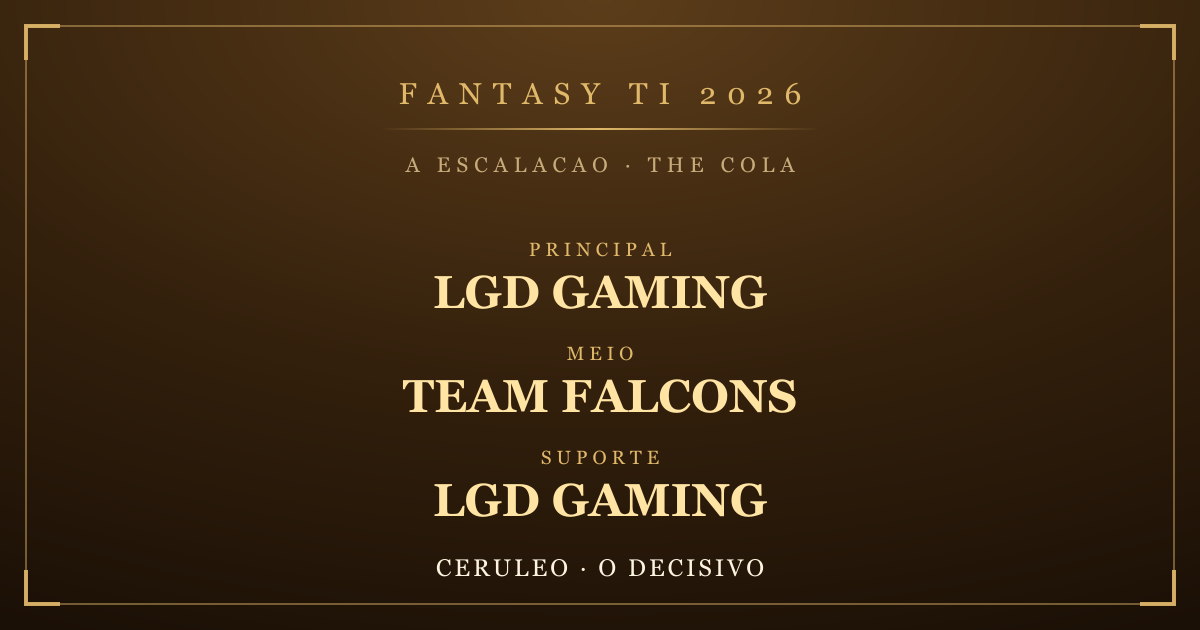
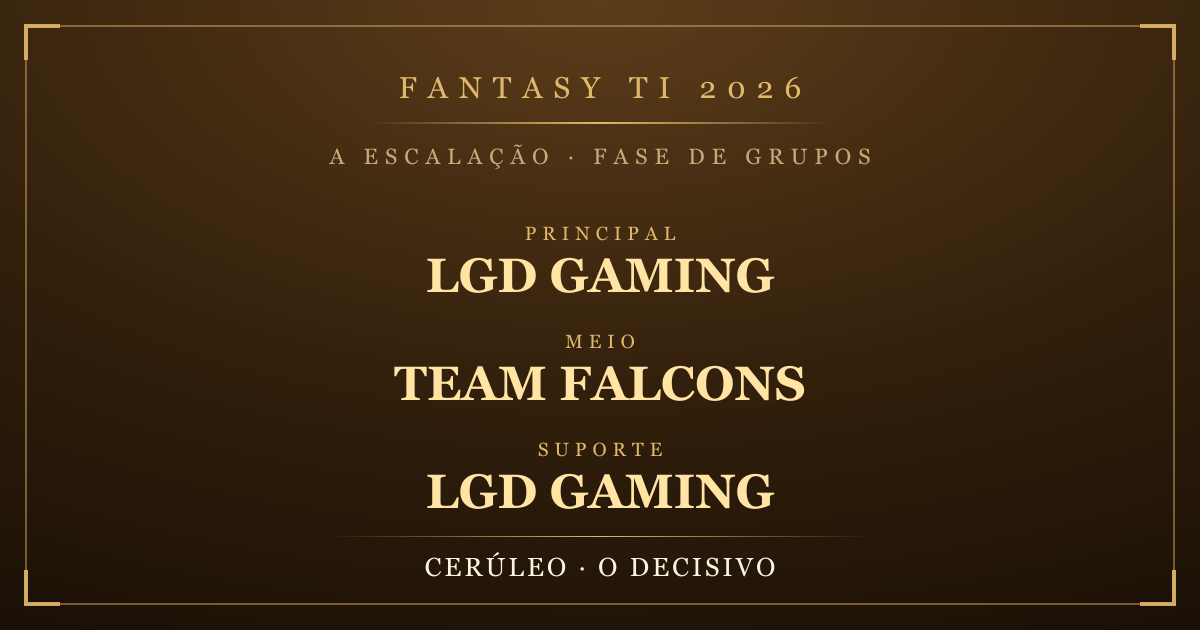
feat: comparacao de palpites ligada, com Topson e "quem nao mexeu"
Botao 3 liga o modo comparacao; 4 troca de adversario. O time onde o adversario
discorda ganha tarja amarela com o palpite DELE, e o rodape mostra o placar com
a fonte junto.

Sobre o Topson: a tela dele de 06/08 esta na ordem PADRAO do cliente, byte a
byte igual a tela nao-mexida do Kamus. Eu tinha me recusado a mostrar, o que era
rigido demais — se ele nao mexer, e isso que vai valer, entao e o palpite dele
na pratica. O certo nao era esconder, era ROTULAR: o campo `source` diz
literalmente "ainda na ordem padrao do cliente, sem ter arrastado nenhum time".
Virou regra escrita no arquivo, porque mostrar como "escolha dele" o que ele so
nao mexeu e verdade pela metade — e meia verdade em tela cheia e mentira.

Tambem entra "Quem nao mexeu" como adversario permanente: e a regua mais justa
que existe pra medir se a conta serve. Medido: sorteio 3,75 · nao mexer 4,60 ·
nosso modelo 5,10.

Corrigido no preview de link: "A ESCALACAO - THE COLA" misturava ingles com
portugues sem querer e comia todos os acentos.

diff --git a/src/features/predictions/PredictionsScene.tsx b/src/features/predictions/PredictionsScene.tsx
@@ -7,7 +7,8 @@ import { TeamLogo } from '../../ui/Portrait';
 import { useLang } from '../../i18n/LangContext';
 import { label } from '../../i18n/strings';
 import { compareWithPro, loadProPicks } from '../../data/proPicks';
-import { useMemo } from 'react';
+import { UNTOUCHED_PICKS } from '../../data/baselinePicks';
+import { useEffect, useMemo, useState } from 'react';
 
 const picks = swiss.picks as Record<string, Bucket>;
 const stability = swiss.stability as Record<string, number>;
@@ -147,17 +148,52 @@ export function PredictionsScene() {
    * So aparece quando ha dado REAL em proPicks.json. Enquanto ninguem tiver
    * publicado, a tela nao muda em nada — melhor ausencia que invencao.
    */
-  const comparisons = useMemo(
-    () => loadProPicks().map((pro) => compareWithPro(picks, pro)),
-    [],
-  );
+  const pros = useMemo(() => loadProPicks(), []);
+
+  /**
+   * Adversarios da comparacao.
+   *
+   * O primeiro sempre existe: "quem nao mexeu", a ordem que o cliente ja vem
+   * preenchido. Os profissionais entram depois, quando publicarem de verdade.
+   */
+  const opponents = useMemo(() => {
+    const base = {
+      id: 'untouched',
+      name: lang === 'pt' ? 'Quem nao mexeu' : 'Not touching it',
+      source: lang === 'pt'
+        ? 'ordem que o cliente ja vem preenchido'
+        : "the client's pre-filled order",
+      capturedAt: '2026-08-07',
+      picks: UNTOUCHED_PICKS,
+    };
+    return [base, ...pros];
+  }, [lang, pros]);
+
+  const [opponentIndex, setOpponentIndex] = useState(0);
+  const [comparing, setComparing] = useState(false);
+
+  // Tecla 3 liga/desliga a comparacao; 4 troca de adversario quando houver mais de um.
+  useEffect(() => {
+    const onKey = (e: KeyboardEvent) => {
+      if (e.key === '3') setComparing((v) => !v);
+      if (e.key === '4') setOpponentIndex((i) => (i + 1) % opponents.length);
+    };
+    window.addEventListener('keydown', onKey);
+    return () => window.removeEventListener('keydown', onKey);
+  }, [opponents.length]);
+
+  const active = opponents[Math.min(opponentIndex, opponents.length - 1)];
+  const comparison = useMemo(() => compareWithPro(picks, active), [active]);
+
   const disagreements = useMemo(() => {
-    const out = new Map<string, { who: string; theirs: Bucket }>();
-    for (const c of comparisons) {
-      for (const d of c.disagreements) out.set(d.teamId, { who: c.pro.name, theirs: d.theirs });
-    }
-    return out;
-  }, [comparisons]);
+    if (!comparing) return new Map<string, { who: string; theirs: Bucket }>();
+    return new Map(
+      comparison.disagreements.map((d) => [d.teamId, { who: active.name, theirs: d.theirs }]),
+    );
+  }, [comparing, comparison, active.name]);
+
+  const opponentHits = Object.entries(active.picks)
+    .reduce((acc, [id, b]) => acc + (probability[id]?.[b] ?? 0), 0);
 
   let x = 60;
   const topPositions = TOP_ROW.map((g) => {
@@ -178,9 +214,38 @@ export function PredictionsScene() {
         <span className="display" style={{ fontSize: 22, letterSpacing: '0.24em', color: 'var(--gold-bright)' }}>
           {t.predictionsTitle} &nbsp;·&nbsp; {t.groupStage}
         </span>
-        <span style={{ fontSize: 14, color: 'var(--text-dim)' }}>
-          {t.simulations(swiss._meta.iterations.toLocaleString(lang === 'pt' ? 'pt-BR' : 'en-US'))}
-        </span>
+        <div style={{ display: 'flex', alignItems: 'center', gap: 12 }}>
+          <button
+            type="button"
+            onClick={() => setComparing((v) => !v)}
+            style={{
+              font: 'inherit', cursor: 'pointer', fontSize: 14, letterSpacing: '0.08em',
+              padding: '7px 16px', borderRadius: 3,
+              border: `2px solid ${comparing ? 'var(--warn)' : 'var(--gold-line)'}`,
+              color: comparing ? '#1b1006' : 'var(--gold)',
+              background: comparing ? 'var(--warn)' : 'rgba(0,0,0,0.30)',
+              fontWeight: comparing ? 700 : 500,
+            }}
+          >
+            3 · {lang === 'pt' ? 'COMPARAR COM' : 'COMPARE VS'} {active.name.toUpperCase()}
+          </button>
+          {comparing && opponents.length > 1 && (
+            <button
+              type="button"
+              onClick={() => setOpponentIndex((i) => (i + 1) % opponents.length)}
+              style={{
+                font: 'inherit', cursor: 'pointer', fontSize: 14, padding: '7px 14px',
+                borderRadius: 3, border: '2px solid var(--gold-line)',
+                color: 'var(--gold)', background: 'rgba(0,0,0,0.30)',
+              }}
+            >
+              4 · {lang === 'pt' ? 'TROCAR' : 'SWITCH'}
+            </button>
+          )}
+          <span style={{ fontSize: 14, color: 'var(--text-dim)' }}>
+            {t.simulations(swiss._meta.iterations.toLocaleString(lang === 'pt' ? 'pt-BR' : 'en-US'))}
+          </span>
+        </div>
       </div>
 
       {TOP_ROW.map((b, i) => (
@@ -252,18 +317,25 @@ export function PredictionsScene() {
             <b>4-0</b> / <b>4-1</b> {t.weakestLead} {t.weakestBody}
           </div>
 
-          {comparisons.map((c) => (
-            <div key={c.pro.id} style={{ marginTop: 10, fontSize: 16, color: 'var(--text)' }}>
-              <b style={{ color: 'var(--gold-bright)' }}>{c.pro.name}:</b>{' '}
-              {c.agreements}/16 {lang === 'pt' ? 'iguais aos nossos' : 'the same as ours'}
-              {c.disagreements.length > 0 && (
-                <span style={{ color: 'var(--warn)' }}>
-                  {' '}· {c.disagreements.length} {lang === 'pt' ? 'em amarelo na grade' : 'in yellow on the grid'}
-                </span>
-              )}
-              <span style={{ fontSize: 12, color: 'var(--text-faint)' }}> ({c.pro.source})</span>
+          {/* Confronto: so aparece com o modo ligado, e sempre com a fonte junto. */}
+          {comparing && (
+            <div
+              style={{
+                marginTop: 11, padding: '9px 13px', borderRadius: 3,
+                border: '1px solid var(--warn)', background: 'rgba(217,138,58,0.12)',
+                fontSize: 16, color: 'var(--text)',
+              }}
+            >
+              <b style={{ color: 'var(--gold-bright)' }}>{active.name}</b>
+              {' '}<span className="numeral" style={{ fontSize: 20 }}>{opponentHits.toFixed(1)}</span>
+              {' '}{lang === 'pt' ? 'contra os nossos' : 'against our'}{' '}
+              <span className="numeral" style={{ fontSize: 20, color: 'var(--gold-bright)' }}>{expectedHits.toFixed(1)}</span>
+              {' · '}
+              <b style={{ color: 'var(--warn)' }}>{comparison.disagreements.length}</b>{' '}
+              {lang === 'pt' ? 'discordancias em amarelo na grade' : 'disagreements in yellow on the grid'}
+              <span style={{ fontSize: 12, color: 'var(--text-dim)' }}> — {active.source}</span>
             </div>
-          ))}
+          )}
         </div>
       </div>
     </>

diff --git a/src/data/baselinePicks.ts b/src/data/baselinePicks.ts
@@ -1,0 +1,35 @@
+import { BUCKET_ORDER, BUCKET_SLOTS } from '../engine/swiss';
+import type { Bucket } from '../engine/swiss';
+
+/**
+ * O PALPITE DE QUEM NAO MEXEU.
+ *
+ * A tela de Palpites do cliente ja vem PREENCHIDA nesta ordem — a semeadura da
+ * Valve. Verificado em dois prints independentes, o do Kamus e o do Topson, com
+ * a ordem byte a byte identica; isso so acontece se nenhum dos dois tiver
+ * tocado na tela.
+ *
+ * Logo, este arranjo e o palpite efetivo de todo mundo que abriu e nao mexeu —
+ * e a regua mais justa que existe pra medir se a conta serve pra alguma coisa.
+ * Melhor que o sorteio, porque a semeadura da Valve ja carrega informacao.
+ *
+ * Medido: sorteio 3,75 · nao mexer 4,60 · nosso modelo 5,10.
+ */
+const DEFAULT_ORDER: readonly string[] = [
+  // linha 1: 4-0 | 4-1 (x2) | vencedora da eliminatoria (x5)
+  'yandex', 'vision', 'falcons', 'spirit', 'liquid', 'boomboys', 'xtreme', 'og',
+  // linha 2: perdedora da eliminatoria (x5) | 1-4 (x2) | 0-4
+  'nigma', 'lgd', 'aurora', 'ironwing', 'vici', 'gamerlegion', 'resilience', 'huligani',
+];
+
+function buildSlots(): readonly Bucket[] {
+  const slots: Bucket[] = [];
+  for (const bucket of BUCKET_ORDER) {
+    for (let i = 0; i < BUCKET_SLOTS[bucket]; i += 1) slots.push(bucket);
+  }
+  return slots;
+}
+
+export const UNTOUCHED_PICKS: Readonly<Record<string, Bucket>> = Object.fromEntries(
+  DEFAULT_ORDER.map((teamId, i) => [teamId, buildSlots()[i]]),
+);
